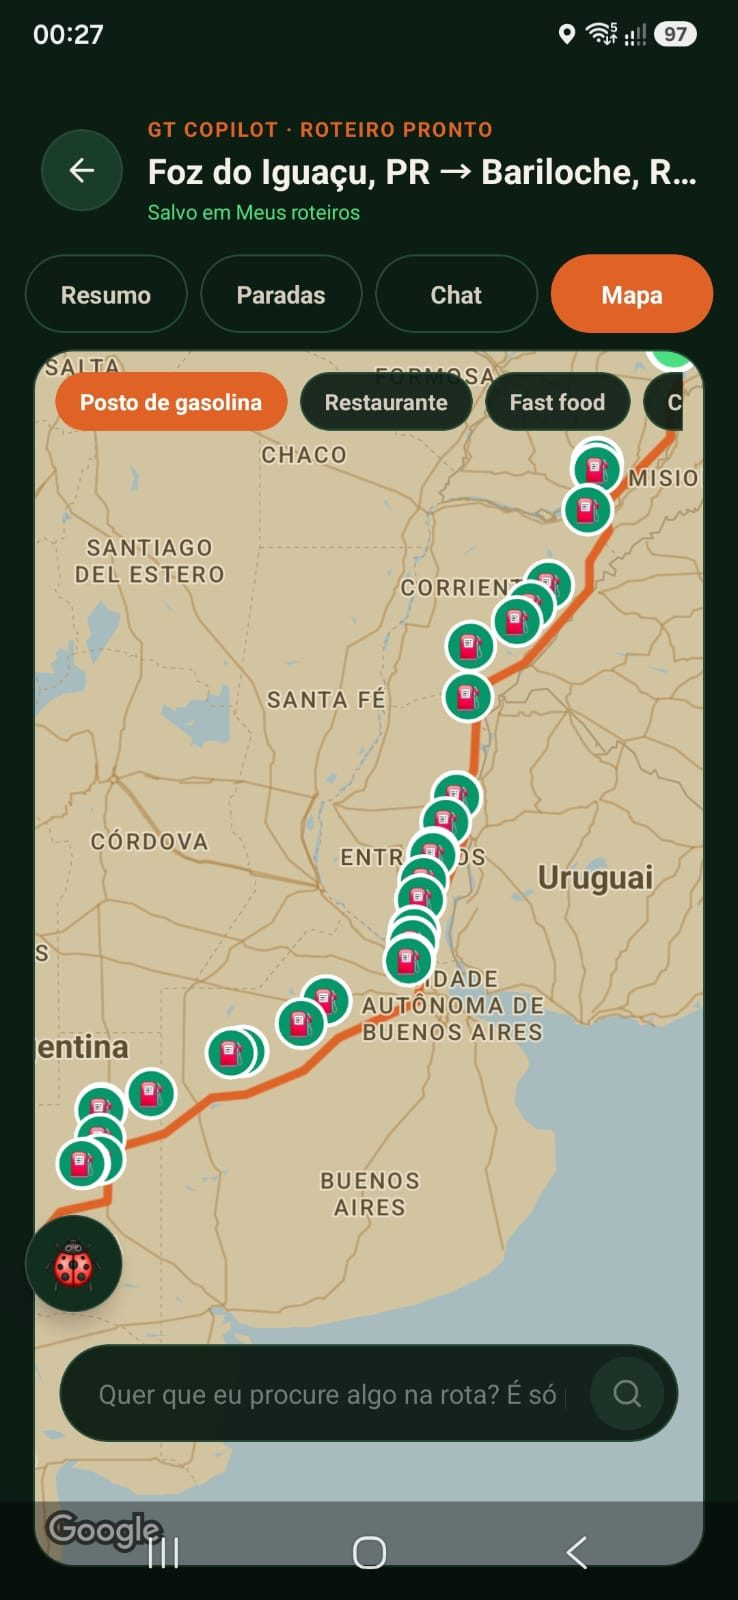
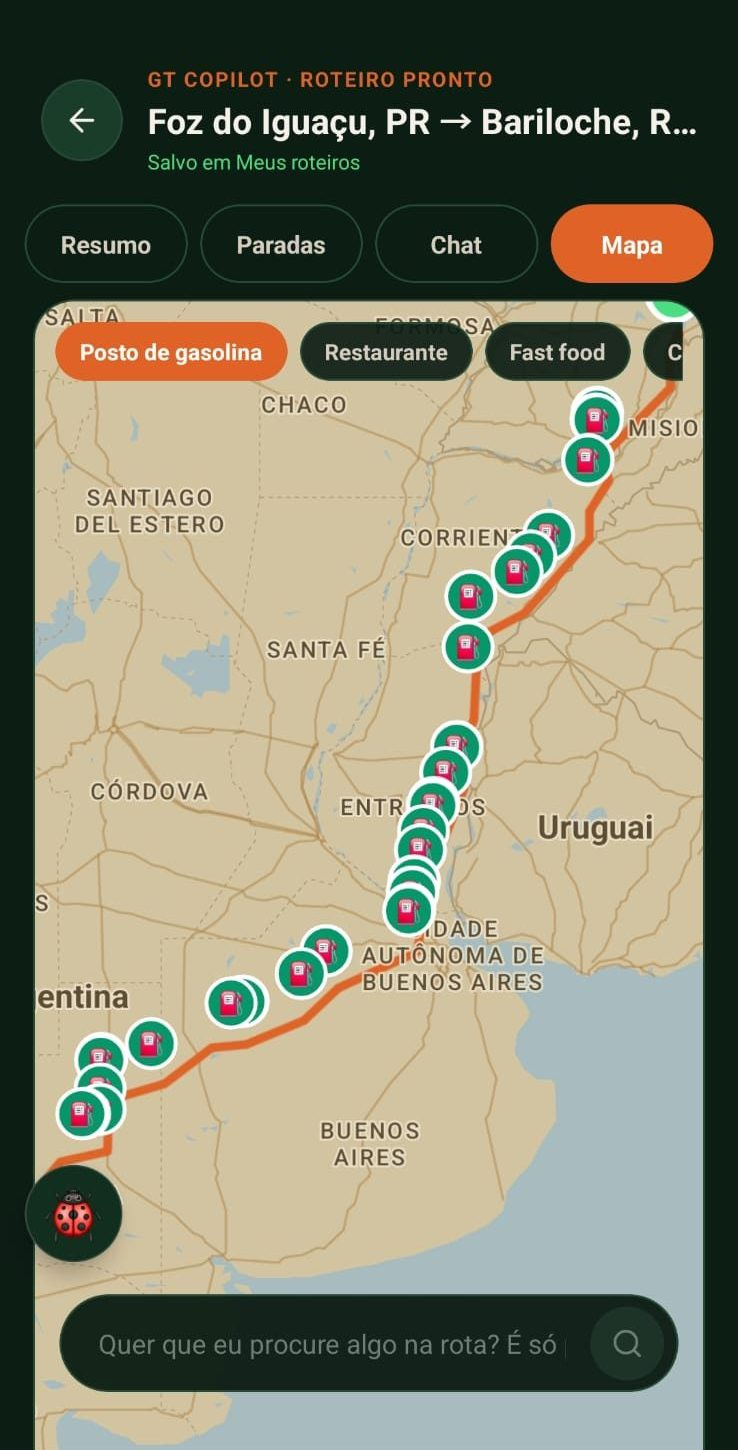
Pilares: screenshots sem barras do sistema e moldura mais visivel

diff --git a/components/sections/pilar-encontre.tsx b/components/sections/pilar-encontre.tsx
@@ -24,7 +24,12 @@ export async function PilarEncontre() {
           <ScrollReveal delay={120} className="flex-shrink-0 order-first md:order-none">
             <div className="relative">
               <div className="absolute inset-0 bg-gt-orange/15 rounded-3xl blur-3xl scale-110 pointer-events-none" />
-              <div className="relative rounded-3xl overflow-hidden border border-gt-border shadow-2xl w-[230px] md:w-[250px]">
+              {/* border-2 + border-strong: o screenshot do radar é um mapa
+                  claro e a borda fina em gt-border sumia, deixando a foto
+                  "solta" sobre o fundo escuro. A moldura mais grossa contém a
+                  imagem e funciona como bezel. Mantida igual no PilarPlaneje
+                  pra as duas seções não ficarem diferentes entre si. */}
+              <div className="relative rounded-3xl overflow-hidden border-2 border-gt-border-strong shadow-2xl w-[230px] md:w-[250px]">
                 {USAR_VIDEO ? (
                   <LazyVideo
                     src="/images/screenshots/app-radar.mp4"
@@ -39,7 +44,7 @@ export async function PilarEncontre() {
                     src="/images/screenshots/app-radar.jpg"
                     alt={t('imgAlt')}
                     width={738}
-                    height={1600}
+                    height={1450}
                     sizes="(max-width: 768px) 230px, 250px"
                     className="w-full h-auto"
                   />

diff --git a/components/sections/pilar-planeje.tsx b/components/sections/pilar-planeje.tsx
@@ -26,7 +26,8 @@ export async function PilarPlaneje() {
           <ScrollReveal delay={120} className="flex-shrink-0 order-first md:order-none">
             <div className="relative">
               <div className="absolute inset-0 bg-gt-orange/15 rounded-3xl blur-3xl scale-110 pointer-events-none" />
-              <div className="relative rounded-3xl overflow-hidden border border-gt-border shadow-2xl w-[230px] md:w-[250px]">
+              {/* Mesma moldura do PilarEncontre — ver comentário lá. */}
+              <div className="relative rounded-3xl overflow-hidden border-2 border-gt-border-strong shadow-2xl w-[230px] md:w-[250px]">
                 {USAR_VIDEO ? (
                   <LazyVideo
                     src="/images/screenshots/app-rotas.mp4"
@@ -41,7 +42,7 @@ export async function PilarPlaneje() {
                     src="/images/screenshots/app-chat-mapa.jpg"
                     alt={t('imgAlt')}
                     width={738}
-                    height={1600}
+                    height={1450}
                     sizes="(max-width: 768px) 230px, 250px"
                     className="w-full h-auto"
                   />

diff --git a/app/[locale]/recursos/roteiros-ia/page.tsx b/app/[locale]/recursos/roteiros-ia/page.tsx
@@ -115,7 +115,7 @@ export default function RoteirosIaPage() {
               src="/images/screenshots/app-chat-mapa.jpg"
               alt="Tela do GT Copilot com o roteiro Foz do Iguaçu a Bariloche pronto, mapa da rota cruzando a Argentina e paradas em postos de combustível filtradas por categoria"
               width={738}
-              height={1600}
+              height={1450}
               className="max-h-[640px] w-auto rounded-3xl border border-gt-border shadow-2xl"
             />
           </div>
